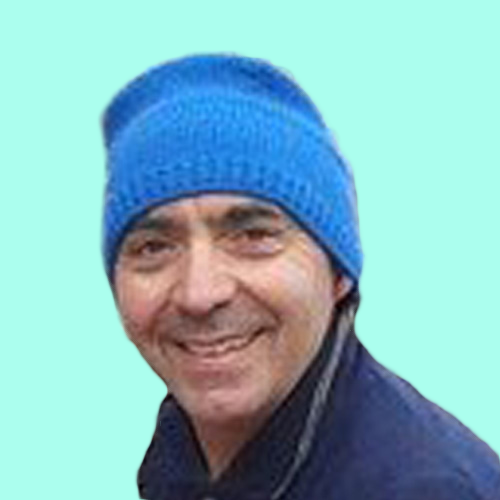
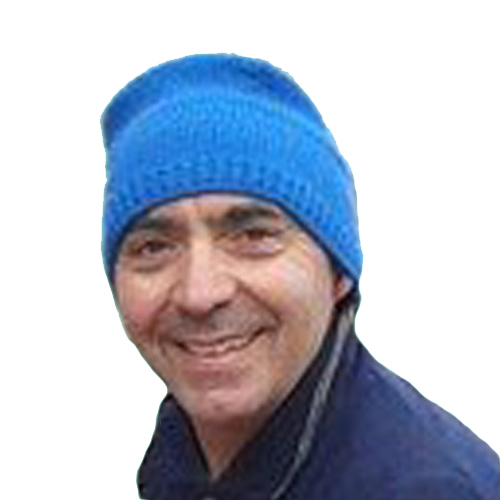
New teammate heroes

diff --git a/index.html b/index.html
@@ -67,58 +67,34 @@
     <section id="equip">
 
         <article id="joan-vilana">
-            <div class="container--dark">
-                <div class="teammate teammate--hero">
-                    <div class="grid">
-                        <div class="grid__item one-whole l-one-half push--l-one-half">
-                            <img class="teammate__photo" src="img/photos/joan-vilana.png" alt="Joan Vilana" width="620">
-                        </div><!--
-                        --><div class="grid__item one-whole l-one-half pull--l-one-half">
-                            <div class="t-margin-leader-1 l-margin-leader-1 island s-margin-trailer-1">
-                                <h2 class="teammate__name">Joan Vilana</h2>
-                                <p class="epsilon teammate__role">Corredor</p>
-                                <p class="teammate__description">Bomber del grup de rescat de muntanya i guia acompanyant de muntanya UIAGM. Ha competit amb l'equip nacional d'esquí de muntanya durant 12 anys i ara vol córrer més enllà de la competició esportiva.</p>
-                            </div>
-                        </div>
-                    </div>
+            <div class="teammate teammate--hero">
+                <img class="teammate__photo" src="img/photos/joan-vilana.jpg" alt="Joan Vilana" width="620">
+                <div class="t-margin-leader-1 l-margin-leader-1 s-margin-trailer-1">
+                    <h2 class="teammate__name">Joan Vilana</h2>
+                    <p class="epsilon teammate__role">Corredor</p>
+                    <p class="teammate__description">Bomber del grup de rescat de muntanya i guia acompanyant de muntanya UIAGM. Ha competit amb l'equip nacional d'esquí de muntanya durant 12 anys i ara vol córrer més enllà de la competició esportiva.</p>
                 </div>
             </div>
         </article>
 
         <article id="xavi-comas">
-            <div class="container--red">
-                <div class="teammate teammate--hero">
-                    <div class="grid">
-                        <div class="grid__item one-whole l-one-half">
-                            <img class="teammate__photo img--right" src="img/photos/xavi-comas.png" alt="Xavi Comas" width="620">
-                        </div><!--
-                        --><div class="grid__item one-whole l-one-half">
-                            <div class="t-margin-leader-1 l-margin-leader-1 island s-margin-trailer-1">
-                                <h2 class="teammate__name">Xavi Comas</h2>
-                                <p class="epsilon teammate__role">Corredor</p>
-                                <p class="teammate__description">Llicenciat en INEFC, professor d’educació física a Formació Professional i a l’EFPEM. Ex-corredor de l’equip nacional d’esquí de muntanya i entrenador personal. També és guia acompanyant de muntanya.</p>
-                            </div>
-                        </div>
-                    </div>
+            <div class="teammate teammate--hero">
+                <img class="teammate__photo" src="img/photos/xavi-comas.jpg" alt="Xavi Comas" width="620">
+                <div class="t-margin-leader-1 l-margin-leader-1 s-margin-trailer-1">
+                    <h2 class="teammate__name">Xavi Comas</h2>
+                    <p class="epsilon teammate__role">Corredor</p>
+                    <p class="teammate__description">Llicenciat en INEFC, professor d’educació física a Formació Professional i a l’EFPEM. Ex-corredor de l’equip nacional d’esquí de muntanya i entrenador personal. També és guia acompanyant de muntanya.</p>
                 </div>
             </div>
         </article>
 
         <article id="edu-vergara">
-            <div class="container--blue">
-                <div class="teammate teammate--hero">
-                    <div class="grid">
-                        <div class="grid__item one-whole l-one-half push--l-one-half">
-                            <img class="teammate__photo" src="img/photos/edu-vergara.png" alt="Edu Vergara" width="620">
-                        </div><!--
-                        --><div class="grid__item one-whole l-one-half pull--l-one-half">
-                            <div class="t-margin-leader-1 l-margin-leader-1 island s-margin-trailer-1">
-                                <h2 class="teammate__name">Edu Vergara</h2>
-                                <p class="epsilon teammate__role">Corredor</p>
-                                <p class="teammate__description">Corredor de muntanya en categoria infantil. Jugador de rugby durant 13 anys, amb varies participacions en partits internacionals tant amb rugby 15 com amb rugby 7. Finisher de maratons i multiples Ultra trails.</p>
-                            </div>
-                        </div>
-                    </div>
+            <div class="teammate teammate--hero">
+                <img class="teammate__photo" src="img/photos/edu-vergara.jpg" alt="Edu Vergara" width="620">
+                <div class="t-margin-leader-1 l-margin-leader-1 s-margin-trailer-1">
+                    <h2 class="teammate__name">Edu Vergara</h2>
+                    <p class="epsilon teammate__role">Corredor</p>
+                    <p class="teammate__description">Corredor de muntanya en categoria infantil. Jugador de rugby durant 13 anys, amb varies participacions en partits internacionals tant amb rugby 15 com amb rugby 7. Finisher de maratons i multiples Ultra trails.</p>
                 </div>
             </div>
         </article>
@@ -224,8 +200,10 @@
                         </div>
                     </div>
                 </div>
-
+                <img class="l-margin-leader-2 img--center" src="img/photos/agua-de-coco.jpg" alt="Agua de Coco" width="700" style="-webkit-transform: rotateX(10deg)">
             </div>
+
+
         </div>
     </section>
 

diff --git a/scss/base/_containers.scss b/scss/base/_containers.scss
@@ -56,19 +56,6 @@
     background-color: $gray-lighter;
 }
 
-.container--dark {
-    @extend %ps;
-    @include slanted-container(down, #777777);
-    background-color: #777777;
-    color: $white;
-}
-
-.container--darker {
-    @extend %ps;
-    background-color: #333;
-    color: $white;
-}
-
 .container--brand {
     @extend %ps;
     @include slanted-container(up, $brand-color);
@@ -84,18 +71,6 @@
 .container--social {
     $social-background-color: scale-lightness($facebook-color, 90%);
     background-color: $social-background-color;
-}
-
-.container--red {
-    @extend %ps;
-    @include slanted-container(up, #fb4f67);
-    background-color: #fb4f67;
-}
-
-.container--blue {
-    @extend %ps;
-    @include slanted-container(down, #4096D1);
-    background-color: #4096D1;
 }
 
 // Dirty hack to prevent slanted containers bug

diff --git a/scss/base/_teammate.scss b/scss/base/_teammate.scss
@@ -31,11 +31,10 @@
         }
     }
 
-    .teammate--hero & {
-        position: relative;
-        margin-top: -6em;
+    @include respond-to(large-and-up) {
+        float: right;
+    }
 
-        }
 }
 
 
@@ -66,14 +65,17 @@
 }
 
 .teammate--hero {
-
-    @extend .l-padding-trailer-3;
+    @extend .wrapper;
     .teammate__name,
     .teammate__role,
     .teammate__description {
         @include respond-to(large-and-up) {
             padding-left: 10%;
         }
+    }
+
+    @include respond-to(large-and-up) {
+        border-bottom: solid 1px $brand-color;
     }
 
 }
